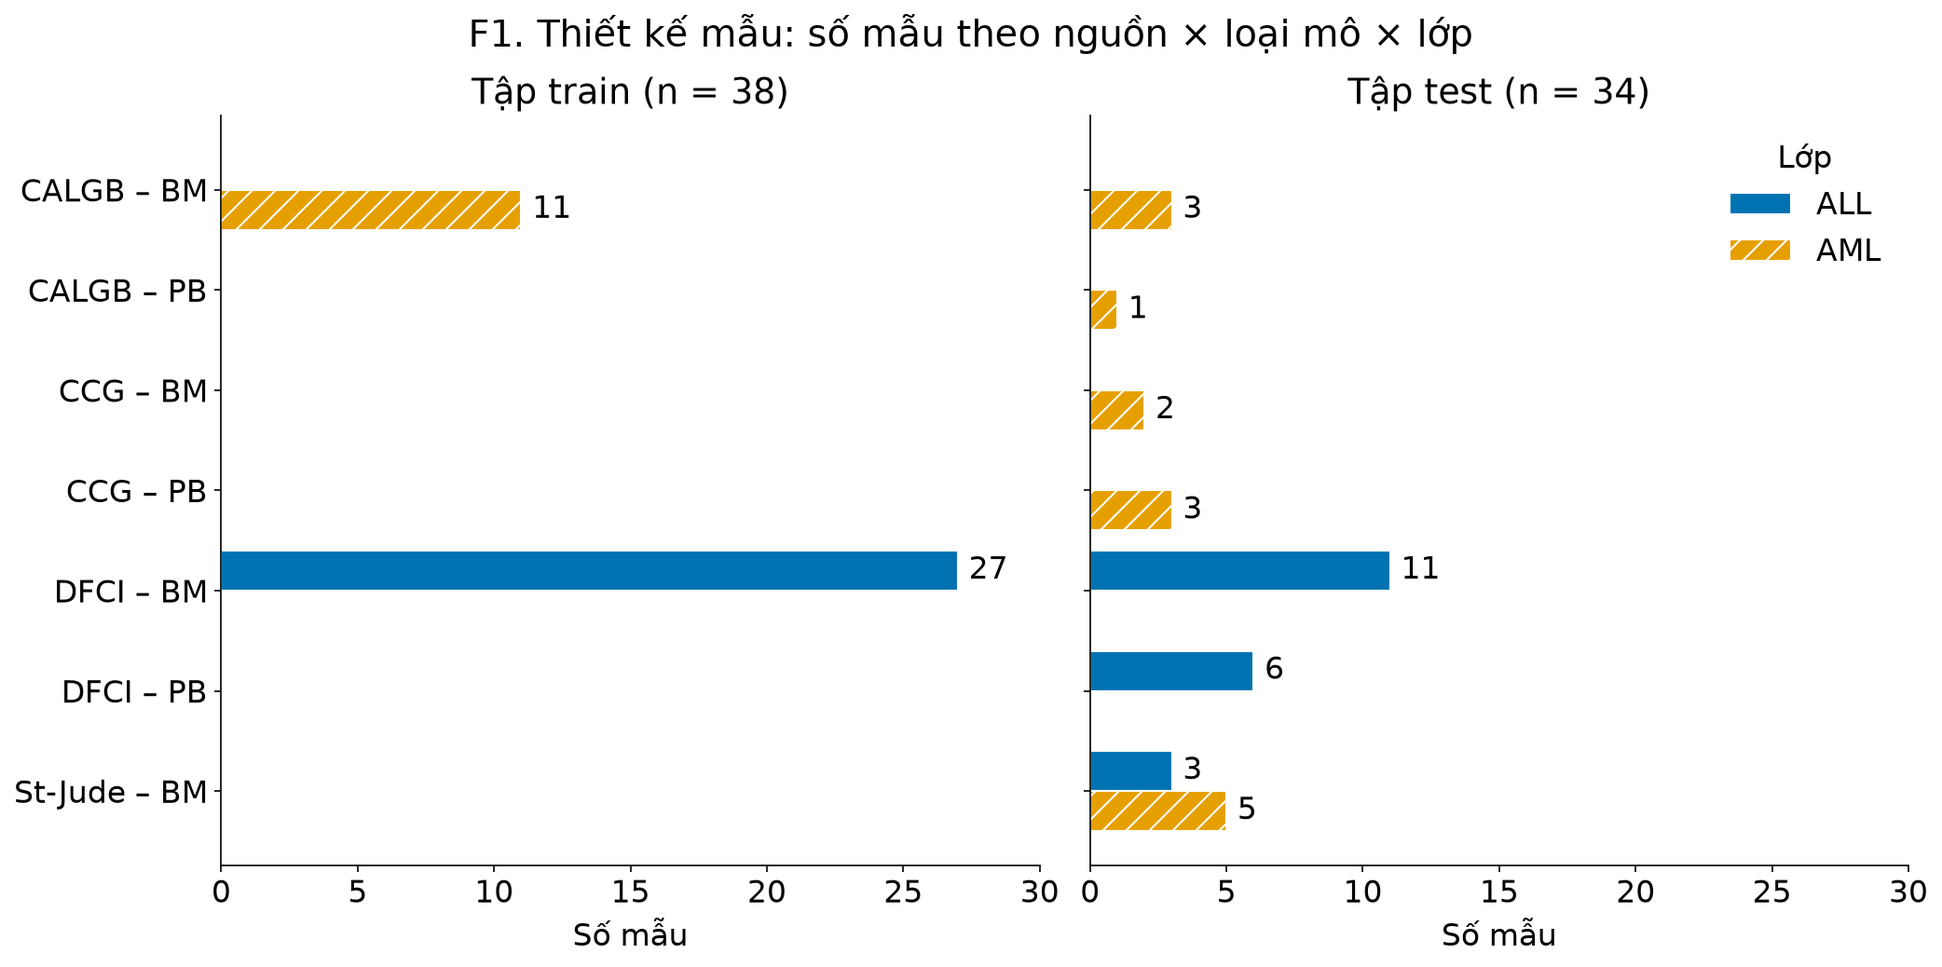
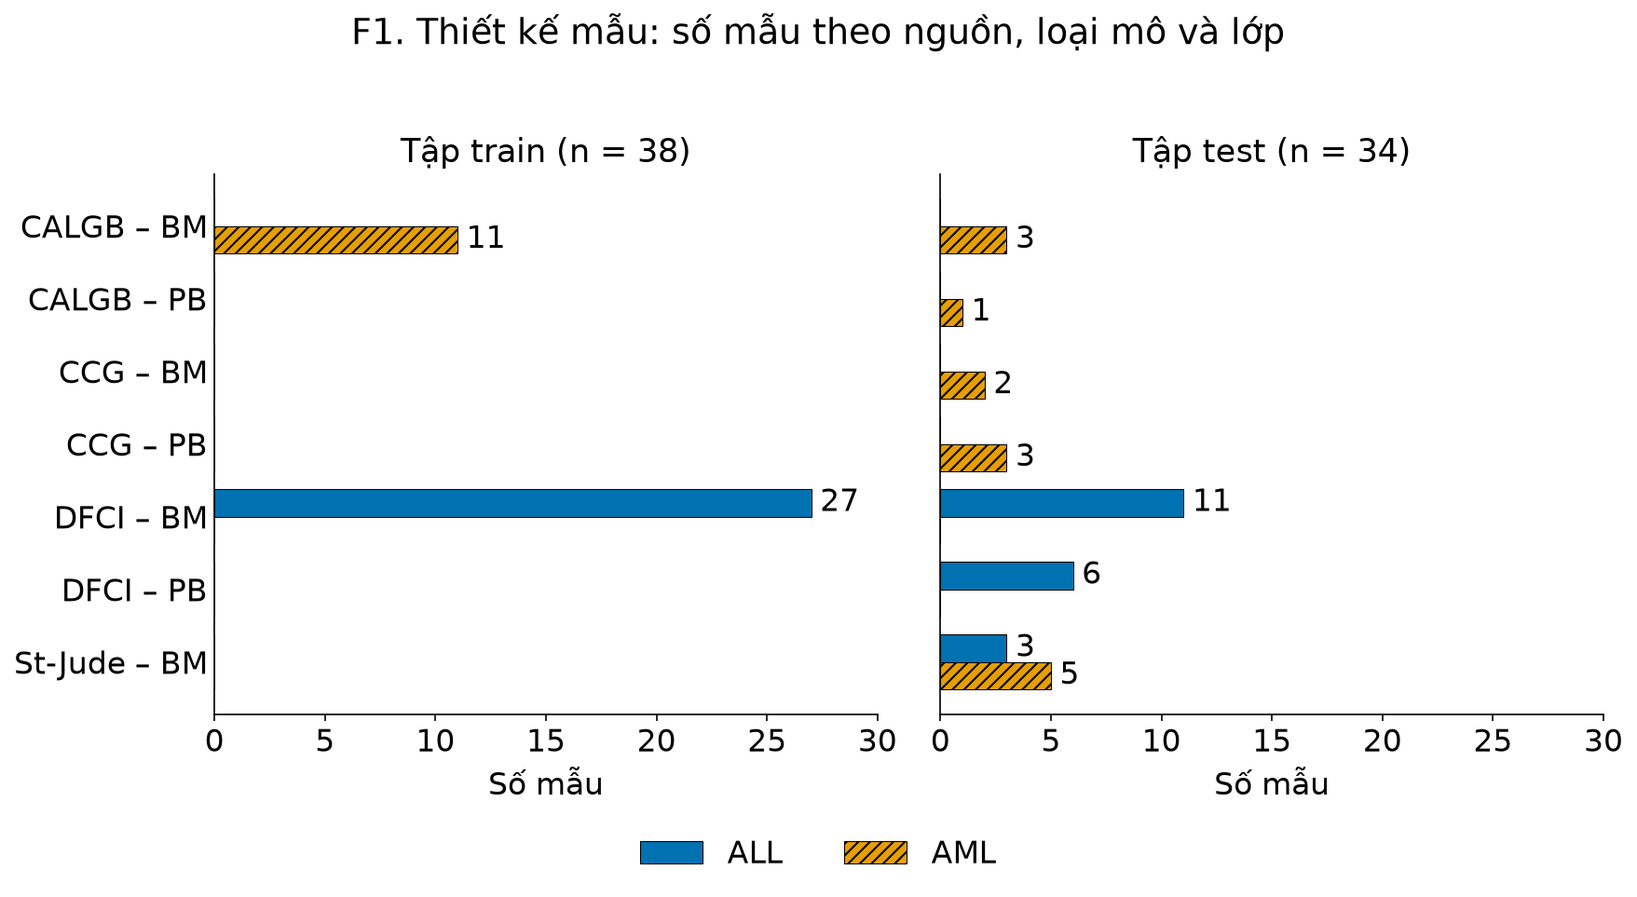
2.6: vẽ lại F01, F04d bằng viz.py (tuần 2)
- src/viz.py: thêm design_counts(), plot_sample_design() (F01) và
  plot_pca_batch() (F04d), đưa vào render_eda; vẽ đúng bề rộng in 6,5 in
  (báo cáo) / 12 in (slide) nên chữ >= 10 pt / 16 pt; giữ nguyên tên file
- TISSUE_COLORS: BM #BDBDBD, PB #000000 (PB cũ #D55E00 trùng màu St-Jude
  khi hai panel F04d đặt cạnh nhau)
- tests/test_viz.py: 4 test mới (bảng đếm, bề rộng, trục từ 0, chú giải,
  một màu một nghĩa); render_eda có thêm F01, F04d
- docs: ADR-070, style_guide (bảng màu, mã hình, mục 7), handover 2.6 tuần 2

diff --git a/src/viz.py b/src/viz.py
@@ -2,14 +2,14 @@
 
 Công việc: 1.4 / 2.6 — Phụ trách: TV6 (kế hoạch mục 4.1, 4.2, 5.2).
 
-Hình do module này vẽ (bản 1, công việc 1.4):
-  F02  histogram trước/sau log10          F04a scree plot
-  F02b phân bố độ biến thiên của gen      F04b PCA PC1–PC2 theo lớp và nhóm con
-  F03  boxplot theo từng mẫu              F04c so sánh PCA / t-SNE / UMAP
+Hình do module này vẽ (công việc 1.4; F01, F04d chuyển từ notebook 02 của TV1 ở công việc 2.6):
+  F01  thiết kế mẫu (nguồn × mô × lớp)    F04a scree plot
+  F02  histogram trước/sau log10          F04b PCA PC1–PC2 theo lớp và nhóm con
+  F02b phân bố độ biến thiên của gen      F04c so sánh PCA / t-SNE / UMAP
+  F03  boxplot theo từng mẫu              F04d PCA theo nguồn và loại mô (batch effect)
                                           F04e tương quan giữa các mẫu + phân cụm phân cấp
-Hình do người khác vẽ (sẽ chuyển sang module này ở công việc 2.6, giữ nguyên tên file):
-  F01, F04d (TV1, notebooks/02_design_batch.ipynb) · F10, F11 (TV2, src/evaluate.py)
-  F05–F09, F12 chưa có (chờ kết quả giai đoạn 2).
+Hình do người khác vẽ (giữ nguyên tên file):
+  F10, F11 (TV2, src/evaluate.py) · F05–F09, F12 chưa có (chờ kết quả giai đoạn 2).
 
 Quy ước dùng chung:
   - Mọi hàm `plot_*` / `pca_scatter` nhận `mode="report"` (chữ 10 pt, 300 dpi) hoặc `mode="slide"`
@@ -57,9 +57,11 @@ SUBTYPE_COLORS = {"B-ALL": "#0072B2", "T-ALL": "#332288", "AML": "#E69F00"}
 SUBTYPE_MARKERS = {"B-ALL": "o", "T-ALL": "s", "AML": "^"}
 # Khớp với hình F4d của TV1: một nguồn mẫu luôn có một màu trong mọi hình.
 SOURCE_COLORS = {"DFCI": "#009E73", "CALGB": "#CC79A7", "CCG": "#56B4E9", "St-Jude": "#D55E00"}
-TISSUE_COLORS = {"BM": "#7F7F7F", "PB": "#D55E00"}
 NEUTRAL = "#4D4D4D"          # đối tượng không mang nghĩa lớp (cột scree, đường tham chiếu…)
 NEUTRAL_LIGHT = "#BDBDBD"
+# Loại mô: BM (đa số, 64/72) xám nhạt, PB (máu ngoại vi, nhóm cần chú ý) đen. Không dùng lại #D55E00
+# vì màu đó đã là St-Jude: F4d đặt hai panel cạnh nhau, một màu chỉ được mang một nghĩa (2.6, ADR-070).
+TISSUE_COLORS = {"BM": NEUTRAL_LIGHT, "PB": "#000000"}
 DIVERGING_CMAP = "RdBu_r"    # heatmap z-score: xanh–trắng–đỏ, tâm 0; KHÔNG dùng rainbow/jet
 SEQUENTIAL_CMAP = "cividis"  # thang tuần tự an toàn với người mù màu (ma trận tương quan)
 
@@ -563,6 +565,95 @@ def plot_embeddings(embeddings: dict[str, pd.DataFrame], samples: pd.DataFrame, 
     return fig
 
 
+def design_counts(samples: pd.DataFrame) -> pd.DataFrame:
+    """Bảng đếm cho F01: một dòng mỗi (tập, nguồn, loại mô), cột ALL/AML. Giữ cả tổ hợp 0 mẫu
+    (ví dụ tập train không có PB) để hai panel train/test có cùng các hàng."""
+    groups = samples[["source", "tissue"]].drop_duplicates().sort_values(["source", "tissue"])
+    rows = pd.MultiIndex.from_frame(groups)
+    out = []
+    for split in ("train", "test"):
+        sub = samples[samples["split"] == split]
+        c = (pd.crosstab([sub["source"], sub["tissue"]], sub["class"])
+             .reindex(rows, fill_value=0).reindex(columns=["ALL", "AML"], fill_value=0))
+        out.append(c.assign(split=split).reset_index())
+    return pd.concat(out, ignore_index=True)[["split", "source", "tissue", "ALL", "AML"]]
+
+
+@styled
+def plot_sample_design(samples: pd.DataFrame, mode: str = "report"):
+    """F01 — Mỗi tổ hợp nguồn × loại mô có bao nhiêu mẫu ALL/AML ở tập train và test?
+
+    Hai panel cùng trục (small multiples); cột ngang bắt đầu từ 0, ghi số trực tiếp ở cuối cột;
+    ALL trơn, AML gạch chéo (mã hóa dư thừa). Thay hình cùng tên của notebook 02 (TV1).
+    """
+    counts = design_counts(samples)
+    groups = counts[counts["split"] == "train"][["source", "tissue"]]
+    ylabels = [f"{s} – {t}" for s, t in zip(groups["source"], groups["tissue"])]
+    ypos = np.arange(len(ylabels))
+    h = 0.38
+    xmax = int(counts[["ALL", "AML"]].to_numpy().max())
+    xlim = xmax + max(3, round(0.12 * xmax))                     # chừa chỗ cho nhãn số
+    fs = FIG_STYLES[mode]["fontsize"]
+    fig, axes = plt.subplots(1, 2, figsize=figsize(mode, 0.55 if mode == "report" else 0.48),
+                             sharex=True, sharey=True)
+    for ax, split in zip(axes, ("train", "test")):
+        c = counts[counts["split"] == split].reset_index(drop=True)
+        for i, cls in enumerate(("ALL", "AML")):
+            y = ypos + (i - 0.5) * h
+            ax.barh(y, c[cls], height=h, color=CLASS_COLORS[cls], edgecolor="black", linewidth=0.5,
+                    hatch="////" if cls == "AML" else "")
+            for yy, n in zip(y, c[cls]):
+                if n > 0:
+                    ax.text(n + 0.4, yy, str(n), va="center", ha="left", fontsize=fs)
+        n_split = int((samples["split"] == split).sum())
+        ax.set_title(f"Tập {split} (n = {n_split})")
+        ax.set_xlabel("Số mẫu")
+        ax.set_xlim(0, xlim)
+        ax.tick_params(axis="y", length=0)
+    axes[0].set_yticks(ypos, ylabels)
+    axes[0].invert_yaxis()
+    handles = [Patch(facecolor=CLASS_COLORS["ALL"], edgecolor="black", linewidth=0.5, label="ALL"),
+               Patch(facecolor=CLASS_COLORS["AML"], edgecolor="black", linewidth=0.5, hatch="////", label="AML")]
+    fig.legend(handles=handles, loc="lower center", ncol=2, frameon=False, bbox_to_anchor=(0.5, -0.08))
+    _title(fig, "F1. Thiết kế mẫu: số mẫu theo nguồn, loại mô và lớp")
+    fig.tight_layout()
+    return fig
+
+
+@styled
+def plot_pca_batch(scores: pd.DataFrame, ratio, samples: pd.DataFrame, mode: str = "report"):
+    """F04d — Các mẫu có tụ theo nguồn hoặc loại mô (batch effect) không? PCA PC1–PC2 trên gen đã lọc;
+    trái: màu theo nguồn mẫu, phải: màu theo loại mô; hình dạng điểm luôn là lớp (ALL tròn, AML tam giác).
+
+    Cùng tọa độ với F04b (truyền `scores`, `ratio` từ compute_pca). Thay hình cùng tên của notebook 02 (TV1).
+    """
+    fig, axes = plt.subplots(1, 2, figsize=figsize(mode, 0.62 if mode == "report" else 0.5),
+                             sharex=True, sharey=True)
+    for ax, col in zip(axes, ("source", "tissue")):
+        pca_scatter(None, samples, color=col, shape="class", scores=scores, ratio=ratio, ax=ax, mode=mode,
+                    legend=False, label_outliers=(col == "source"))
+        ax.set_title(f"Màu theo {LABELS[col].lower()}")
+        present = set(samples.loc[scores.index, col])
+        handles = [Patch(facecolor=c, edgecolor="black", linewidth=0.5, label=v)   # màu = nhóm, ô vuông
+                   for v, c in COLOR_MAPS[col].items() if v in present]
+        ax.legend(handles=handles, frameon=False, loc="upper center", bbox_to_anchor=(0.5, -0.24),
+                  ncol=2 if mode == "report" else 4, handletextpad=0.2, columnspacing=0.8,
+                  title=LABELS[col])
+    axes[1].set_ylabel("")
+    ms = 6 if mode == "report" else 11
+    shape_h = [Line2D([], [], ls="", marker=CLASS_MARKERS[c], mfc="white", mec="black", ms=ms, label=c)
+               for c in ("ALL", "AML")]
+    if "qc_outlier" in samples and samples.loc[scores.index, "qc_outlier"].astype(bool).any():
+        shape_h.append(Line2D([], [], ls="", marker="o", mfc="none", mec="black", mew=1.2,
+                              ms=9 if mode == "report" else 14, label="qc_outlier"))
+    # chú giải hình dạng (dùng chung hai panel) nằm giữa, ngay dưới tiêu đề
+    fig.tight_layout(rect=(0, 0, 1, 0.9))
+    fig.legend(handles=shape_h, loc="center", ncol=len(shape_h), frameon=False,
+               bbox_to_anchor=(0.5, 0.93), handletextpad=0.2, columnspacing=1.2)
+    _title(fig, "F4d. PCA (PC1–PC2) tô theo nguồn mẫu và loại mô", y=1.0)
+    return fig
+
+
 def sample_linkage(corr: np.ndarray, method: str = "average") -> np.ndarray:
     """Phân cụm phân cấp theo khoảng cách 1 − Pearson, liên kết average (mục 3.1.2)."""
     d = 1.0 - np.asarray(corr, float)
@@ -611,16 +702,18 @@ def plot_sample_correlation(X: pd.DataFrame, samples: pd.DataFrame, mode: str = 
 def render_eda(Xraw: pd.DataFrame, Xl: pd.DataFrame, Xf: pd.DataFrame, samples: pd.DataFrame,
                modes: tuple[str, ...] = MODES, base_dir: Path | None = None, seed: int = RANDOM_SEED,
                embedding_methods: tuple[str, ...] = ("pca", "tsne", "umap")) -> list[Path]:
-    """Vẽ F02, F02b, F03, F04a, F04b, F04c, F04e cho các chế độ; trả về danh sách file đã ghi."""
+    """Vẽ F01, F02, F02b, F03, F04a–F04e cho các chế độ; trả về danh sách file đã ghi."""
     scores, ratio = compute_pca(Xf, 10, seed)
     emb = compute_embeddings(Xf, seed, embedding_methods)
     builders = {
+        "F01_thiet_ke_mau": lambda m: plot_sample_design(samples, mode=m),
         "F02_hist_before_after_log": lambda m: plot_hist_log(Xraw, Xl, mode=m),
         "F02b_gene_variance": lambda m: plot_gene_variance(Xl, mode=m),
         "F03_box_per_sample": lambda m: plot_box_per_sample(Xl, samples, mode=m),
         "F04a_pca_scree": lambda m: plot_scree(ratio, mode=m),
         "F04b_pca_by_class": lambda m: plot_pca_by_class(scores, ratio, samples, mode=m),
         "F04c_tsne_umap": lambda m: plot_embeddings(emb, samples, mode=m),
+        "F04d_pca_batch": lambda m: plot_pca_batch(scores, ratio, samples, mode=m),
         "F04e_sample_correlation": lambda m: plot_sample_correlation(Xf, samples, mode=m),
     }
     paths = []
@@ -643,9 +736,8 @@ def main() -> None:
     METRICS_DIR.mkdir(parents=True, exist_ok=True)
     out = METRICS_DIR / "eda_summary.json"
     out.write_text(json.dumps(eda_summary(Xraw, Xl, Xf, samples), ensure_ascii=False, indent=2), encoding="utf-8")
-    print(f"Đã vẽ {len(paths)} hình EDA (F02, F02b, F03, F04a, F04b, F04c, F04e) và ghi {out.name}.")
-    print("Chưa thuộc module này: F01, F04d (TV1, notebook 02), F10, F11 (TV2, evaluate.py); "
-          "F05–F09, F12 sẽ thêm ở công việc 2.6.")
+    print(f"Đã vẽ {len(paths)} hình (F01, F02, F02b, F03, F04a–F04e) và ghi {out.name}.")
+    print("Chưa thuộc module này: F10, F11 (TV2, evaluate.py); F05–F09, F12 chờ giai đoạn 2.")
 
 
 if __name__ == "__main__":

diff --git a/tests/test_viz.py b/tests/test_viz.py
@@ -85,8 +85,8 @@ def test_render_eda_writes_named_files(data, tmp_path, mode):
     sub = "report" if mode == "report" else "slides"
     names = sorted(p.name for p in paths)
     assert names == sorted(f"{stem}_{mode}.png" for stem in (
-        "F02_hist_before_after_log", "F02b_gene_variance", "F03_box_per_sample", "F04a_pca_scree",
-        "F04b_pca_by_class", "F04c_tsne_umap", "F04e_sample_correlation"))
+        "F01_thiet_ke_mau", "F02_hist_before_after_log", "F02b_gene_variance", "F03_box_per_sample",
+        "F04a_pca_scree", "F04b_pca_by_class", "F04c_tsne_umap", "F04d_pca_batch", "F04e_sample_correlation"))
     assert all(p.parent == tmp_path / sub and p.stat().st_size > 5_000 for p in paths)
     plt.close("all")
 
@@ -122,3 +122,36 @@ def test_eda_summary_reports_measurement_range(data):
     raw, Xl, Xf, samples = data
     mr = viz.eda_summary(raw, Xl, Xf, samples)["measurement_range"]
     assert 0 <= mr["frac_negative"] <= mr["frac_below_100"] <= 1 and 0 <= mr["frac_above_16000"] <= 1
+
+
+def test_design_counts_keeps_empty_groups_and_sums(data):
+    _, _, _, samples = data
+    c = viz.design_counts(samples)
+    n_groups = len(samples[["source", "tissue"]].drop_duplicates())
+    assert (c["split"] == "train").sum() == (c["split"] == "test").sum() == n_groups   # cùng hàng ở 2 panel
+    assert int(c[["ALL", "AML"]].to_numpy().sum()) == len(samples)
+    for split in ("train", "test"):
+        sub = c[c["split"] == split]
+        assert int(sub[["ALL", "AML"]].to_numpy().sum()) == int((samples["split"] == split).sum())
+
+
+@pytest.mark.parametrize("mode", ["report", "slide"])
+def test_sample_design_and_pca_batch_follow_style(data, mode):
+    _, _, Xf, samples = data
+    w = viz.FIG_STYLES[mode]["width"]
+    fig = viz.plot_sample_design(samples, mode=mode)
+    assert fig.get_size_inches()[0] == pytest.approx(w)            # vẽ đúng bề rộng in thật
+    assert all(ax.get_xlim()[0] == 0 for ax in fig.axes)           # cột bắt đầu từ 0
+    plt.close(fig)
+    scores, ratio = viz.compute_pca(Xf, 2)
+    fig = viz.plot_pca_batch(scores, ratio, samples, mode=mode)
+    assert fig.get_size_inches()[0] == pytest.approx(w)
+    left, right = fig.axes[:2]
+    assert {t.get_text() for t in left.get_legend().get_texts()} == {"DFCI", "CALGB", "St-Jude"}
+    assert {t.get_text() for t in right.get_legend().get_texts()} == {"BM", "PB"}
+    plt.close(fig)
+
+
+def test_one_color_one_meaning_in_pca_batch():
+    """F04d đặt nguồn và loại mô cạnh nhau: không màu nào được dùng cho cả hai."""
+    assert not set(viz.SOURCE_COLORS.values()) & set(viz.TISSUE_COLORS.values())

diff --git a/docs/handover/2.6.md b/docs/handover/2.6.md
@@ -55,7 +55,7 @@ Chạy: `make app` (Windows: `python run_all.py app`). Dùng hàm thật: `GOLUB
 - Bảng xếp hạng gen chưa cho bấm một hàng để mở gen đó (phải chép mã probe vào ô tìm).
 - Mở thẳng link trang con (ví dụ `/chat-luong`) ngay sau khi server vừa khởi động báo "Page not found"; vào Trang chủ
   trước thì không bị.
-- Chưa vẽ lại F01, F04d (việc tuần 2) và chưa kiểm tra checklist hình (tuần 4).
+- Chưa kiểm tra checklist hình (tuần 4). F01, F04d đã vẽ lại ở tuần 2 (xem mục cuối).
 
 ## Người nhận cần biết
 
@@ -72,3 +72,49 @@ Chạy: `make app` (Windows: `python run_all.py app`). Dùng hàm thật: `GOLUB
   ở bảng xếp hạng và ở thẻ gen.
 - **TV3 (2.3):** khi kho DuckDB xong, đổi `backend.reference_data()` đọc từ kho (tuần 3); các trang không phải sửa.
 - **Mọi người:** muốn xem trước giao diện, chạy `make app` (hoặc `python run_all.py app`) rồi vào Trang chủ.
+
+---
+
+# Tuần 2: vẽ lại F01, F04d (hạn CN 22/11)
+
+## Đã làm gì
+
+- **`src/viz.py`**: thêm `design_counts()` (bảng đếm tập × nguồn × mô × lớp), `plot_sample_design()` (F01) và
+  `plot_pca_batch()` (F04d); cả hai nằm trong `render_eda`, nên `make figures` (Windows: `python run_all.py figures`)
+  vẽ lại chúng cùng các hình EDA khác. Tên file giữ nguyên.
+- **Sửa so với bản của TV1:** vẽ đúng bề rộng in 6,5 in (bản báo cáo) / 12 in (bản slide) nên mọi chữ ≥ 10 pt / 16 pt
+  khi in; màu lấy từ hằng số của `viz.py`; F01 thêm viền đen cho cột (AML gạch chéo vẫn đọc được khi in đen trắng);
+  F04d thêm số thứ tự hình, khoanh mẫu 21 (qc_outlier), tách chú giải màu (ô vuông) và hình dạng (dùng chung).
+- **Đổi màu loại mô** (`TISSUE_COLORS`): BM `#BDBDBD`, PB `#000000`. Màu PB cũ `#D55E00` trùng màu St-Jude, mà F04d
+  đặt hai panel cạnh nhau (ADR-070). Dashboard dùng màu mới luôn vì đọc cùng hằng số.
+- **`tests/test_viz.py`**: thêm 4 test (bảng đếm giữ hàng 0 mẫu và cộng đủ 72; đúng bề rộng, cột từ 0, chú giải đúng
+  ở cả hai chế độ; không màu nào vừa là nguồn vừa là loại mô) và cập nhật danh sách file của `render_eda`.
+- `docs/style_guide.md` (bảng màu, bảng mã hình, mục 7) và `docs/decisions.md` (ADR-070).
+
+## File nằm ở đâu
+
+| Sản phẩm | Đường dẫn |
+|---|---|
+| Hàm vẽ | `src/viz.py`: `plot_sample_design`, `plot_pca_batch`, `design_counts` |
+| Hình F01 | `results/figures/{report,slides}/F01_thiet_ke_mau_{report,slide}.png` |
+| Hình F04d | `results/figures/{report,slides}/F04d_pca_batch_{report,slide}.png` |
+
+## Kết quả chính
+
+- Số liệu không đổi so với bản của TV1: F01 train 27 ALL (DFCI–BM) + 11 AML (CALGB–BM); test 34 mẫu như cũ.
+  F04d: PC1 16,1 %, PC2 11,4 % (cùng z-score và seed với notebook 02).
+- `python -m pytest tests/test_viz.py tests/test_app_smoke.py tests/test_interfaces.py`: **37 passed** (Windows, Python 3.14).
+
+## Người nhận cần biết
+
+- **TV1:** notebook `02_design_batch.ipynb` vẫn còn `ve_F1`, `ve_pca_batch` và các ô `savefig`; chạy lại notebook sẽ
+  ghi đè hình mới bằng bản cũ. Theo ADR-014 mình không sửa notebook của bạn, nhờ bạn thay ô 10–11 và 19 bằng:
+
+  ```python
+  from src import viz
+  scores, ratio = viz.compute_pca(Xf, 10)
+  for m in viz.MODES:
+      viz.save_figure(viz.plot_sample_design(samples, mode=m), "F01_thiet_ke_mau", m)
+      viz.save_figure(viz.plot_pca_batch(scores, ratio, samples, mode=m), "F04d_pca_batch", m)
+  ```
+- **Người viết mục báo cáo có F04d:** chú thích hình đổi "PB màu cam" thành "PB màu đen".

diff --git a/docs/decisions.md b/docs/decisions.md
@@ -260,6 +260,21 @@ tái lập được và truy ngược về nguồn.
 - **Kiểm tra:** `tests/test_warehouse.py` dựng kho vào thư mục tạm, đối chiếu Bảng 2.4, khóa ngoại, khoảng giá trị
   và số giá trị âm (147 174).
 
+## ADR-070 — Vẽ lại F01, F04d bằng `src/viz.py`; đổi màu loại mô (công việc 2.6)
+- **Ngày:** 22/11/2026 · **Người đề xuất / quyết định:** TV6
+- **Bối cảnh:** F01, F04d (TV1, notebook 02) vẽ rộng 10–11 in nên chữ khi in nhỏ hơn 10 pt, màu ghi cứng
+  trong notebook (ADR-011). Trong F04d gốc, `#D55E00` vừa là St-Jude (panel trái) vừa là PB (panel phải),
+  vi phạm quy tắc "một màu một nghĩa trong một hình" của style guide.
+- **Quyết định:**
+  - Thêm `viz.design_counts`, `viz.plot_sample_design` (F01) và `viz.plot_pca_batch` (F04d) vào
+    `render_eda`; `make figures` vẽ cả hai, giữ nguyên tên file `F01_thiet_ke_mau_*`, `F04d_pca_batch_*`.
+  - F04d dùng chung tọa độ PCA với F04b (`compute_pca`, cùng z-score và seed như notebook 02: PC1 16,1 %,
+    PC2 11,4 %); chú giải màu là ô vuông, chú giải hình dạng (lớp) dùng chung ở trên; mẫu 21 khoanh tròn.
+  - `TISSUE_COLORS`: BM `#BDBDBD`, PB `#000000` (trước: `#7F7F7F` / `#D55E00`). Áp dụng cho cả dashboard.
+  - F01: hai panel cùng trục, cột từ 0, nhãn số trực tiếp, AML gạch `////` viền đen (in đen trắng vẫn đọc được).
+- **Hệ quả:** notebook 02 (TV1) vẫn còn hàm vẽ cũ; chạy lại notebook sẽ ghi đè hình bằng bản cũ. Theo
+  ADR-014 TV6 không sửa notebook của người khác: TV1 thay ô vẽ bằng lời gọi `viz` (xem `docs/handover/2.6.md`).
+
 ## Nhật ký nhanh (mục 5.2 kế hoạch)
 
 | Ngày | Quyết định | Lý do | Người quyết định |
@@ -279,3 +294,4 @@ tái lập được và truy ngược về nguồn.
 | 01/11/2026 | 2.2: `src/features.py` bản 1 — 6 bộ chọn gen + `make_selector`, luôn đúng k gen, snr/ttest cân bằng hai phía | ADR-050 | TV4 |
 | 12/11/2026 | 2.2 đổi sang Khám phá gen theo kế hoạch mới: `src/gene_explorer.py`, thay thế ADR-050; schema `gene_annotations.csv` cho TV5 | ADR-051 | TV4 |
 | 15/11/2026 | 2.1: Golub weighted voting chuẩn hóa z-score theo train, SD chia n − 1, n lẻ báo lỗi, PS < 0,3 là uncertain | ADR-020 | TV1 |
+| 22/11/2026 | 2.6: vẽ lại F01, F04d bằng `viz.py` (6,5 in, chữ ≥ 10 pt); loại mô BM xám nhạt, PB đen | ADR-070 | TV6 |

diff --git a/docs/style_guide.md b/docs/style_guide.md
@@ -20,7 +20,7 @@ Bảng Okabe–Ito, an toàn với người mù màu.
 | Nguồn mẫu | CALGB | `#CC79A7` | — | |
 | Nguồn mẫu | CCG | `#56B4E9` | — | |
 | Nguồn mẫu | St-Jude | `#D55E00` | — | |
-| Loại mô | BM / PB | `#7F7F7F` / `#D55E00` | — | |
+| Loại mô | BM / PB | `#BDBDBD` / `#000000` | — | PB là nhóm cần chú ý; không dùng `#D55E00` (đã là St-Jude), ADR-070 |
 | Trung tính | cột, đường tham chiếu | `#4D4D4D` đậm, `#BDBDBD` nhạt | — | không mang nghĩa lớp |
 
 - **Mã hóa dư thừa:** màu luôn đi kèm hình dạng (điểm) hoặc kiểu gạch (hộp, cột) để in đen trắng vẫn đọc được. Hộp/cột: ALL trơn, AML gạch chéo `////`.
@@ -67,11 +67,11 @@ Bảng Okabe–Ito, an toàn với người mù màu.
 
 | Mã | Nội dung | Người vẽ | Nơi vẽ |
 |---|---|---|---|
-| F01 | Thiết kế mẫu | TV1 | `notebooks/02_design_batch.ipynb` |
+| F01 | Thiết kế mẫu | TV1, vẽ lại TV6 (2.6) | `src/viz.py` (`plot_sample_design`) |
 | F02, F02b | Histogram trước/sau log10; độ biến thiên gen và lọc | TV6 | `src/viz.py` |
 | F03 | Boxplot từng mẫu | TV6 | `src/viz.py` |
 | F04a, F04b, F04c | Scree; PCA theo lớp và nhóm con; PCA/t-SNE/UMAP | TV6 | `src/viz.py` |
-| F04d | PCA tô theo nguồn và loại mô (batch effect) | TV1 | `notebooks/02_design_batch.ipynb` |
+| F04d | PCA tô theo nguồn và loại mô (batch effect) | TV1, vẽ lại TV6 (2.6) | `src/viz.py` (`plot_pca_batch`) |
 | F04e | Tương quan giữa các mẫu + phân cụm phân cấp | TV6 | `src/viz.py` |
 | F05–F09, F12 | chưa có | | chờ giai đoạn 2 |
 | F10, F11 | Selection bias; ROC + ma trận nhầm lẫn | TV2 | `src/evaluate.py` |
@@ -104,4 +104,4 @@ save_figure(fig, "F04x_ten_ngan", "report")                              # -> re
 ## 7. Việc còn lại / không nhất quán cần xử lý ở công việc 2.6
 
 - `F10`, `F11` (TV2) đang dùng màu `#2b7bba`/`#c0392b`, chữ 9 pt (báo cáo) và 17 pt (slide): khác bảng ở mục 1–2. Sẽ chuyển sang `viz.py` (ADR-009).
-- `F01`, `F04d` (TV1) vẽ rộng 10–11 in với chữ 10 pt, nên khi chèn vào báo cáo chữ nhỏ hơn 10 pt. Cần vẽ lại bằng `figsize("report")`.
+- ~~`F01`, `F04d` (TV1) vẽ rộng 10–11 in~~: đã vẽ lại bằng `viz.py` ở 2.6 tuần 2 (22/11), rộng 6,5 in; F04d đổi màu loại mô để không trùng màu St-Jude (ADR-070).
